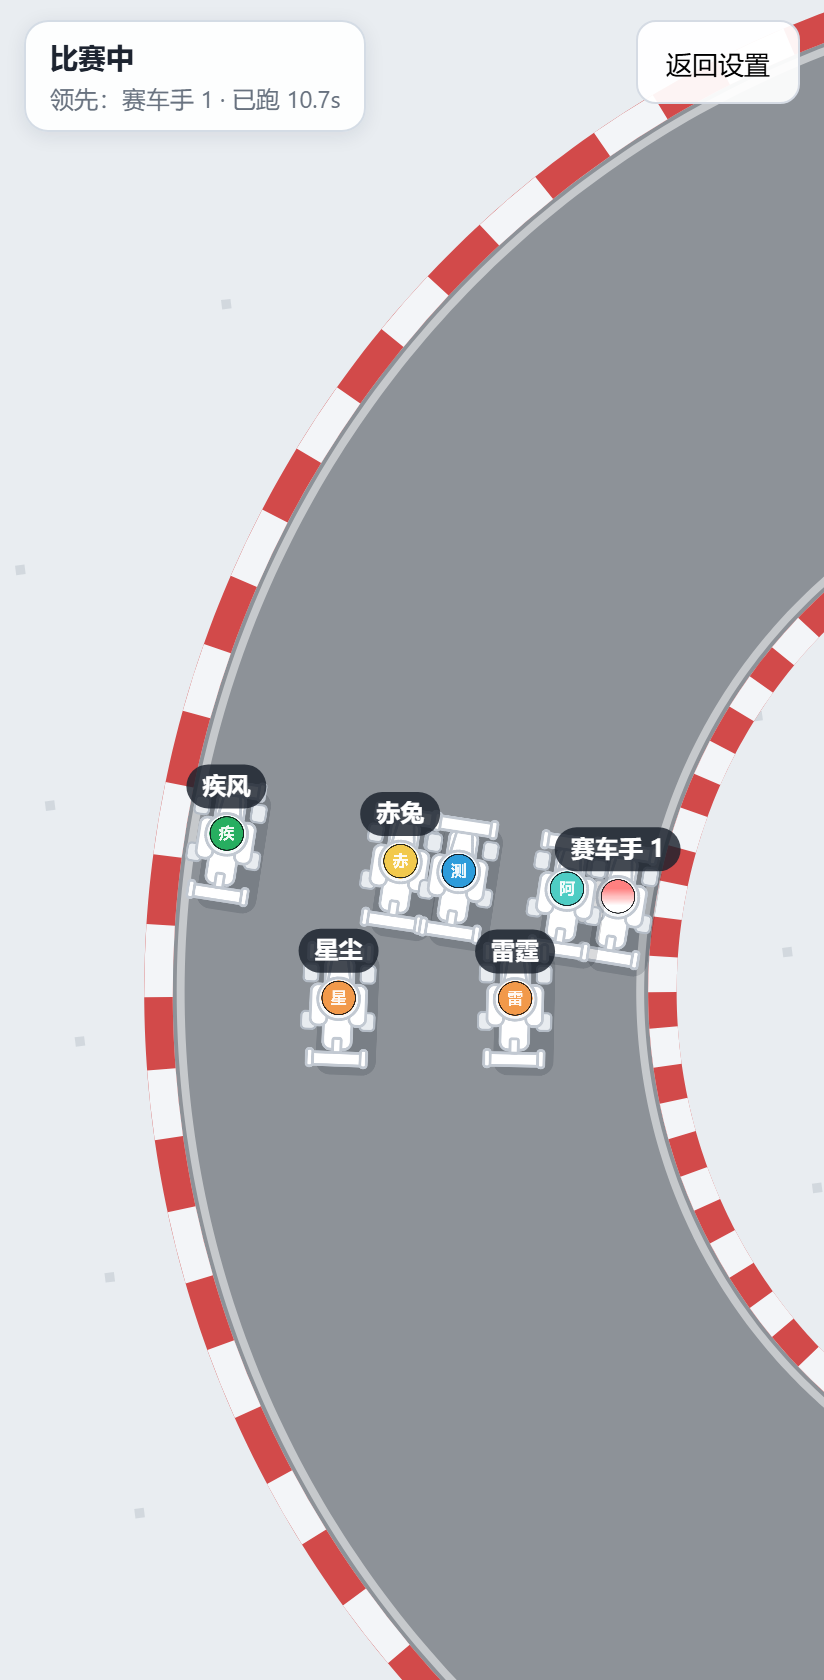
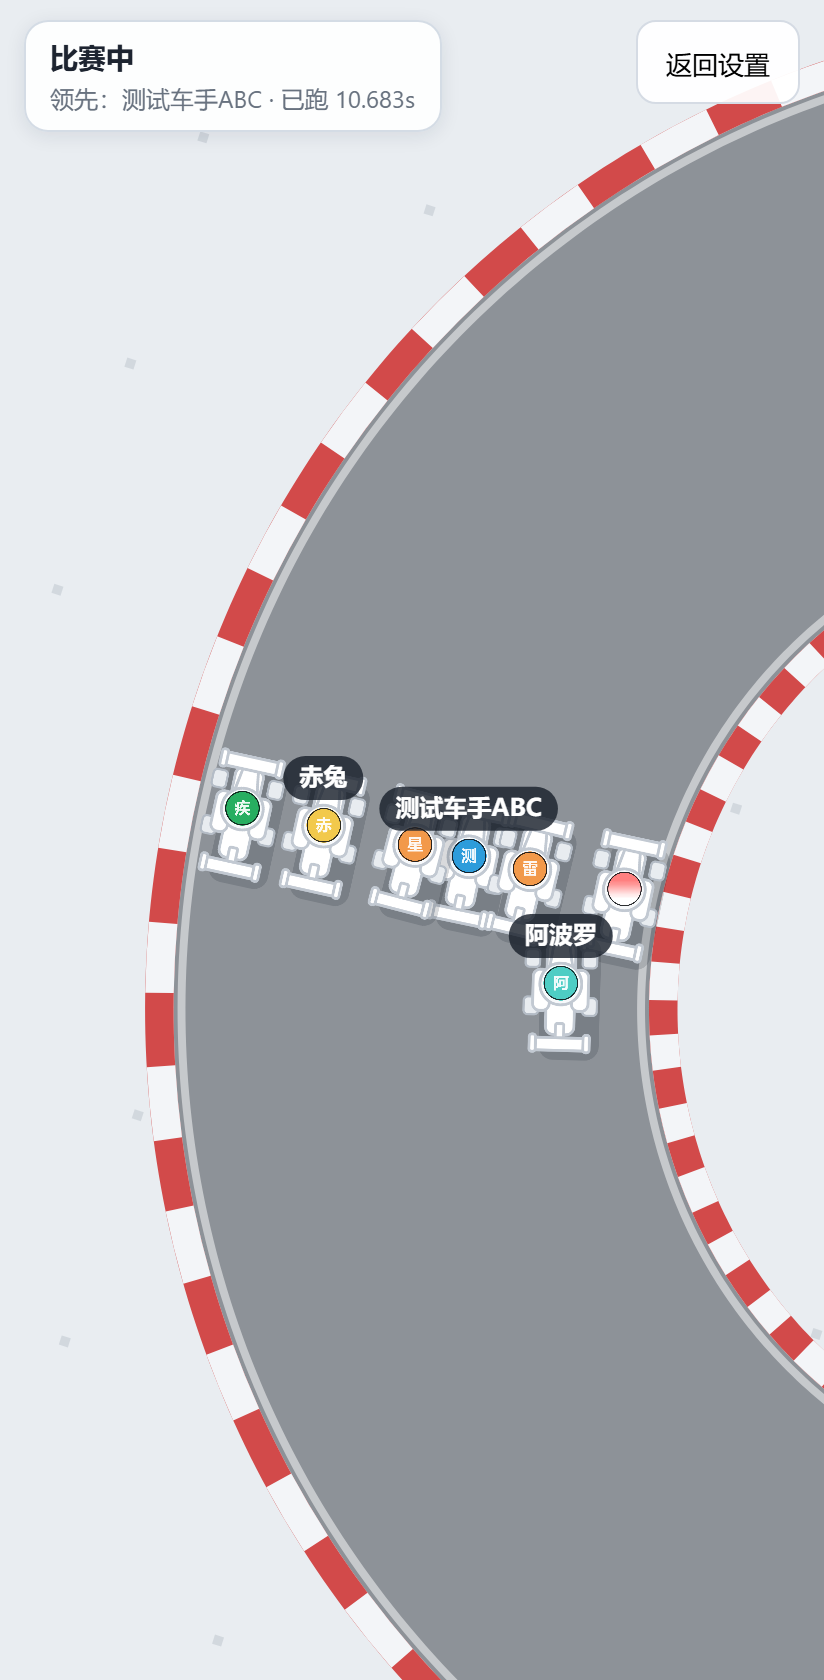
冲线时间精确到毫秒；终点段淡出追赶机制，避免同时冲线

diff --git a/qa_ms.js b/qa_ms.js
@@ -1,0 +1,34 @@
+const { chromium } = require(process.env.PW_PATH);
+const URL = 'file:///C:/Users/Administrator/dragen%20dance/avatar-racing/index.html';
+function P(l,v){ console.log(l + ' ' + JSON.stringify(v)); }
+(async function(){
+  const browser = await chromium.launch();
+  const errors = [];
+  for (let run=1; run<=3; run++){
+    const page = await browser.newPage({ viewport:{ width:412, height:840 }, deviceScaleFactor:2 });
+    page.on('pageerror', function(e){ errors.push('pageerror: ' + e.message); });
+    page.on('console', function(m){ if(m.type()==='error') errors.push('console: ' + m.text()); });
+    await page.goto(URL);
+    await page.click('#sampleBtn');
+    await page.evaluate(function(){ for (var i=0;i<4;i++) document.getElementById('addBtn').click(); });
+    await page.click('#startBtn');
+    let ok = false;
+    for (let i=0;i<80;i++){
+      const s = await page.evaluate(function(){ return window.__avatarRace.race.phase; });
+      if (s === 'results' || s === 'ending'){ ok = true; break; }
+      await page.waitForTimeout(500);
+    }
+    const res = await page.evaluate(function(){
+      var r = window.__avatarRace.race;
+      var ts = r.cars.filter(function(c){ return c.finished; }).map(function(c){ return { n:c.p.name, t:c.finishTime*1000 }; }).sort(function(a,b){ return a.t-b.t; });
+      var gaps = []; for (var i=1;i<ts.length;i++) gaps.push(+(ts[i].t - ts[i-1].t).toFixed(1));
+      var rounded = ts.map(function(x){ return Math.round(x.t); });
+      var dupes = rounded.length - new Set(rounded).size;
+      return { times: ts.map(function(x){ return x.n + '=' + (x.t/1000).toFixed(3); }), gapsMs: gaps, minGapMs: Math.min.apply(null, gaps), duplicateTimestamps: dupes, board: [].slice.call(document.querySelectorAll('.row')).slice(0,5).map(function(x){ return x.querySelector('.nm').textContent + ' ' + x.querySelector('.st').textContent; }) };
+    });
+    P('RUN'+run, res);
+    await page.close();
+  }
+  P('ERRORS', errors);
+  await browser.close();
+})().catch(function(e){ P('FATAL', e.message); process.exit(1); });

diff --git a/index.html b/index.html
@@ -156,7 +156,7 @@ function rrect(g,x,y,w,h,r){
   g.lineTo(x,y+r); g.arcTo(x,y,x+r,y,r);
   g.closePath();
 }
-function fmtTime(v){ return (Math.round(v*10)/10).toFixed(1) + 's'; }
+function fmtTime(v){ return (v >= 0 ? v.toFixed(3) : '0.000') + 's'; }   // 毫秒精度
 function dist(a,b){ var dx=b.x-a.x, dy=b.y-a.y; return Math.sqrt(dx*dx+dy*dy); }
 
 var setupView = document.getElementById('setupView');
@@ -592,6 +592,7 @@ function createCars(track, rnd){
       paceSeed3: rnd() * TAU,
       draft: 0, blocked: 0, follow: 1, gone: false, clear: true,
       rank: 1, surgeTimer: 0, surgeCooldown: 1 + rnd()*4, surgePower: 0,
+      finishBias: (rnd()*2-1) * 0.015,      // 终点段 ±1.5% 微偏置，避免完全同时冲线
       lane: 0, baseLane: 0
     };
   });
@@ -638,13 +639,21 @@ function updateCar(c, dt, t, raceLen){
     }
     var surge = (c.surgeTimer > 0 && rank > 3) ? c.surgePower : 0;
     var catchup = clamp(posFactor + gapBoost + surge, 0.80, 1.32);
+    var finishRamp = clamp((c.s - (raceLen - 4200)) / 4200, 0, 1);   // 最后 4200 单位逐渐取消加速/减速
+    if (finishRamp > 0) catchup = lerp(catchup, 1 + c.finishBias, finishRamp);
     c.catchup = catchup;
     targetV = c.baseSpeed * pace * (1 + c.draft) * c.follow * (1 - 0.22 * c.blocked) * catchup;
   }
   if (targetV > 0) c.v += (targetV - c.v) * (1 - Math.exp(-c.accel*dt));
   else c.v = 0;
   c.s += c.v * dt;
-  if (!c.finished && c.s >= raceLen){ c.finished = true; c.finishTime = t; }
+  if (!c.finished && c.s >= raceLen){
+    c.finished = true;
+    // 这一帧只走了 v*dt，冲线发生在帧内某个比例处 —— 反推出精确的亚帧时刻
+    var travelled = c.v * dt;
+    var frac = travelled > 1e-6 ? clamp((c.s - raceLen) / travelled, 0, 1) : 0;
+    c.finishTime = t - dt * frac;
+  }
   if (c.s > raceLen + 2800) c.gone = true;
   c.lane = damp(c.lane, c.baseLane, 0.18, dt);
   var wob = 7 * Math.sin(t*0.62 + c.wobbleSeed*2.1);
